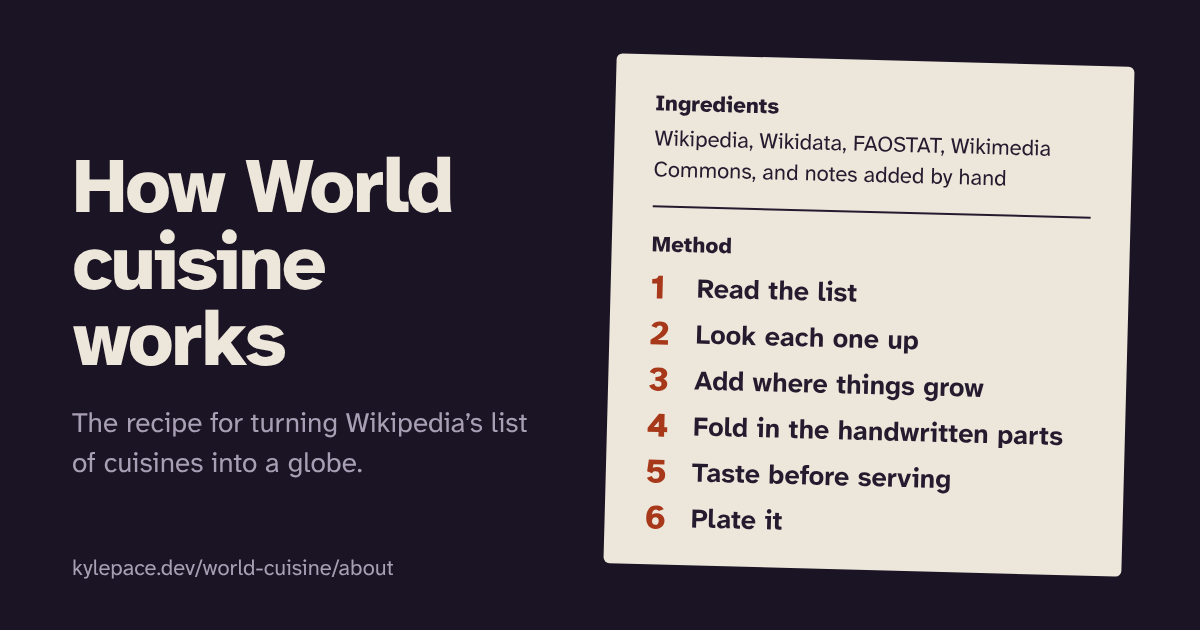
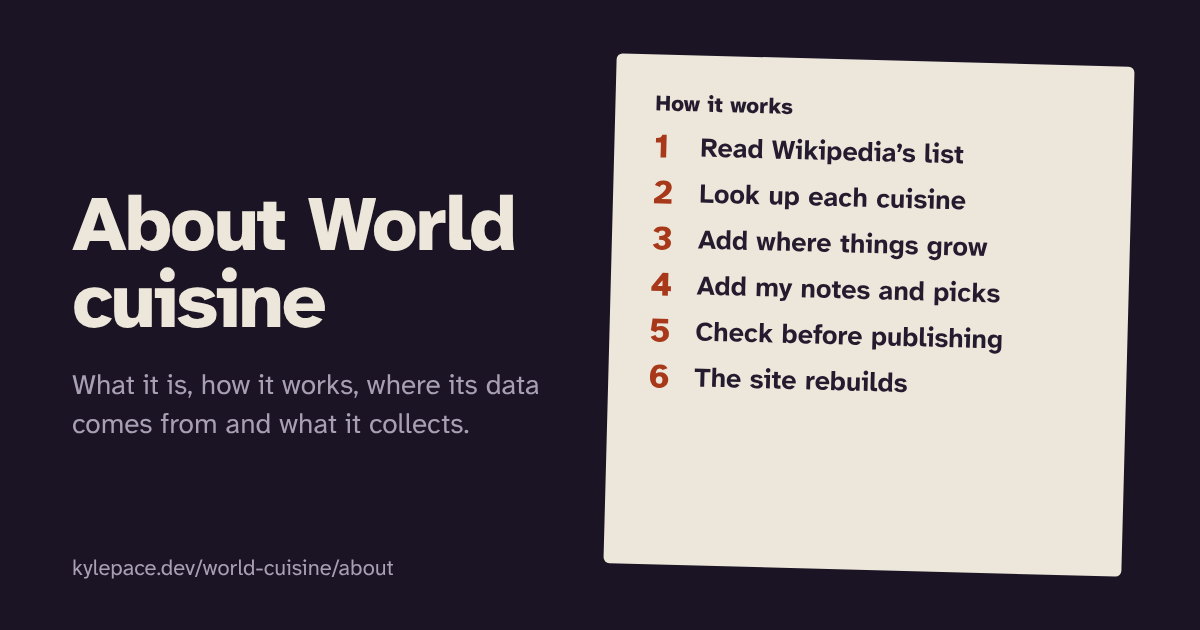
About page: standard title and headings, no recipe theme
- The title is About World cuisine; sections use the shared headings
- Steps say plainly what happens (no Plate it or Taste before serving), each with a Where it runs line
- The privacy note now says cookbook covers come from Open Library and intros from Wikipedia; the share card matches

Claude-Session: https://claude.ai/code/session_015KDcQDvS6NT5BmgyMsjti6

diff --git a/scripts/og-about.html b/scripts/og-about.html
@@ -2,10 +2,10 @@
 <html lang="en">
 <head>
 <meta charset="utf-8">
-<title>How World cuisine works: share card</title>
+<title>About World cuisine: share card</title>
 <!-- Share card for kylepace.dev/world-cuisine/about/ (public/world-cuisine/share-about.png).
      Render at 1200x630 (share-card skill). The explorer's own palette: aubergine page, rice
-     paper for the recipe card, squid ink text on it, saffron for the step numbers. -->
+     paper for the card, squid ink text on it, saffron for the step numbers. -->
 <link rel="stylesheet" href="../vendor/fonts/atkinson.css">
 <style>
   html, body { margin: 0; width: 1200px; height: 630px; overflow: hidden; background: #1b1424; color: #ede6da; font-family: "Atkinson Hyperlegible Next", sans-serif; }
@@ -23,21 +23,19 @@
 </head>
 <body>
 <div class="copy">
-  <h1>How World cuisine works</h1>
-  <p>The recipe for turning Wikipedia’s list of cuisines into a globe.</p>
+  <h1>About World cuisine</h1>
+  <p>What it is, how it works, where its data comes from and what it collects.</p>
 </div>
 <div class="site">kylepace.dev/world-cuisine/about</div>
 <div class="card">
-  <h2>Ingredients</h2>
-  <p class="ing">Wikipedia, Wikidata, FAOSTAT, Wikimedia Commons, and notes added by hand</p>
-  <h2>Method</h2>
+  <h2>How it works</h2>
   <ol>
-    <li>Read the list</li>
-    <li>Look each one up</li>
+    <li>Read Wikipedia’s list</li>
+    <li>Look up each cuisine</li>
     <li>Add where things grow</li>
-    <li>Fold in the handwritten parts</li>
-    <li>Taste before serving</li>
-    <li>Plate it</li>
+    <li>Add my notes and picks</li>
+    <li>Check before publishing</li>
+    <li>The site rebuilds</li>
   </ol>
 </div>
 </body>

diff --git a/AGENTS.md b/AGENTS.md
@@ -184,7 +184,7 @@ A globe and a linked-page browser for the world's cuisines, with Wikipedia as th
 - **The explorer itself** is two static pages, `index.html` (the globe) and `web.html` (the page browser), plus `data/`, `vendor/` and `render_item.js`. They stay at the repo root as the source. `scripts/update.sh` rebuilds the data and runs weekly in GitHub Actions.
 - **The site around it** is Astro on its own Cloudflare Worker (`world-cuisine`), mounted on `kylepace.dev/world-cuisine` by the routes in `wrangler.jsonc`:
   - `src/pages/world-cuisine/index.astro`: the framed page with the header, credits and counts.
-  - `src/pages/world-cuisine/about.astro` (`/world-cuisine/about/`): how it works, written as a recipe: the sources are the ingredients and the weekly refresh is the method. Counts come from the data files. If a source or a step of `scripts/update.sh` changes, change this page too.
+  - `src/pages/world-cuisine/about.astro` (`/world-cuisine/about/`): the standard title, headings and step format from the `about-page` skill. Counts come from the data files. If a source or a step of `scripts/update.sh` changes, change this page too.
   - `src/pages/world-cuisine/[type]/[slug].astro`: about 3,600 cuisine, dish and ingredient pages, rendered on request with `render_item.js` (noindex).
   - `src/pages/world-cuisine/img/[...path].ts`: the photo route. Fetches each listed Wikimedia photo once and keeps it in the R2 bucket `kylepace-cuisine-images` (binding `CUISINE_IMAGES`).
   - `scripts/stage-app.mjs` copies the explorer into `public/world-cuisine/app/` before every build (gitignored). A new top-level file the pages need has to be added there too.
